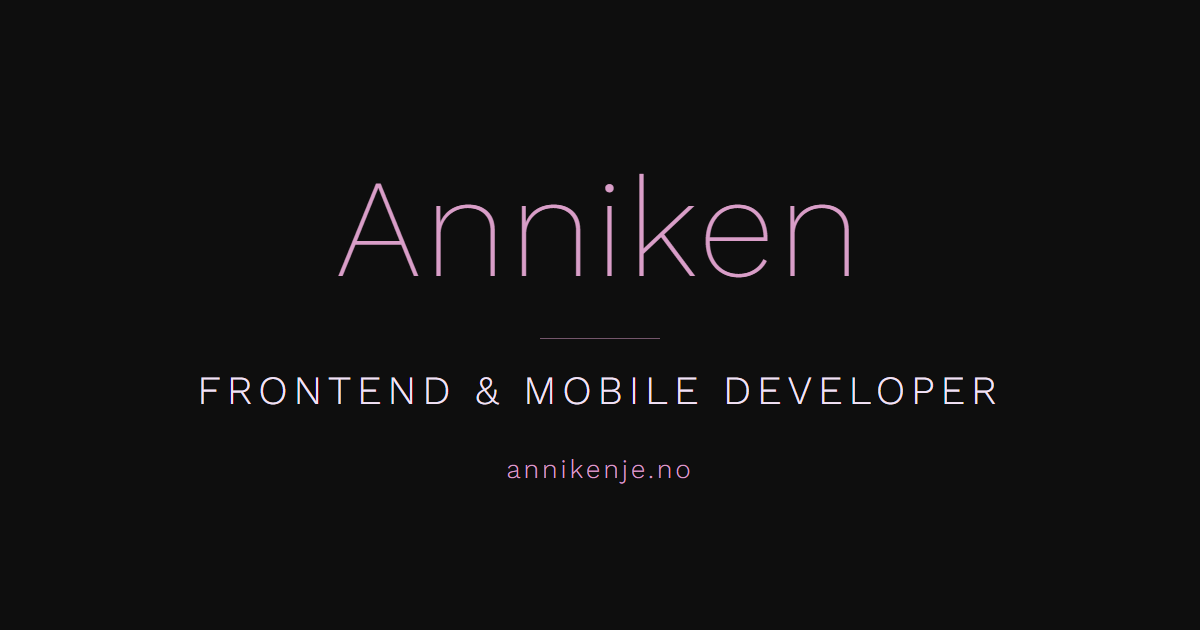
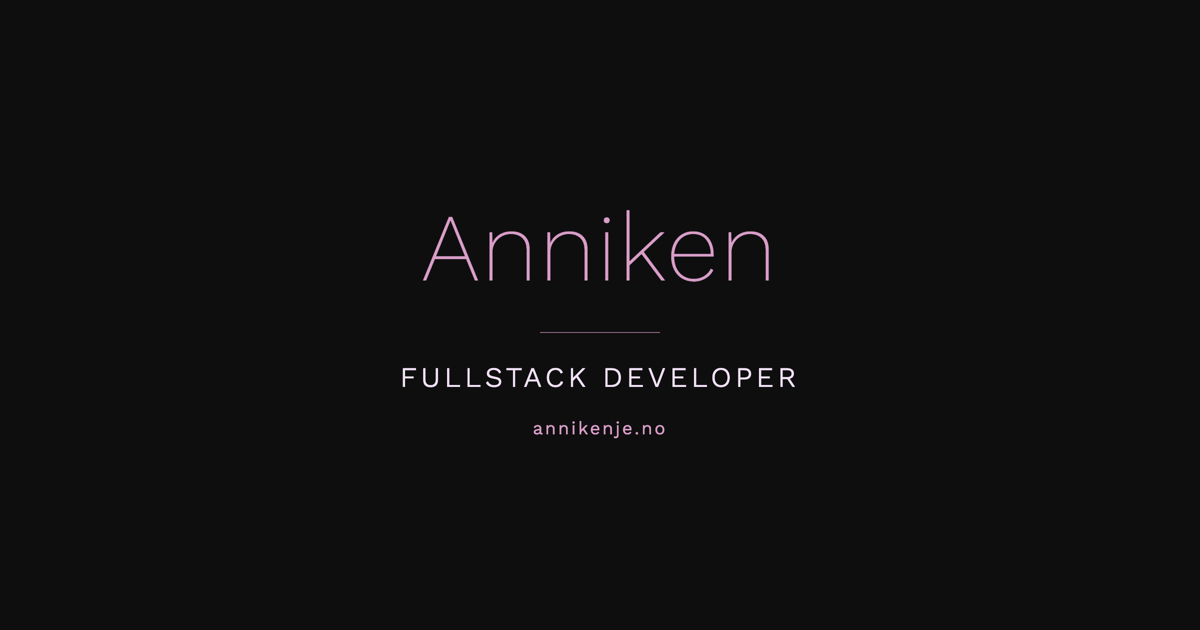
content: reposition as fullstack developer, drop mobile from headline
Home copy, page title, and OG card now lead with "Fullstack Developer"
instead of "Fullstack & Mobile Developer".

diff --git a/index.html b/index.html
@@ -7,10 +7,10 @@
     <meta name="theme-color" content="#0e0e0e" />
     <meta name="robots" content="noindex, nofollow" />
 
-    <title>Anniken Jørgensen Edvardsen — Frontend & Mobile Developer</title>
+    <title>Anniken Jørgensen Edvardsen — Fullstack Developer</title>
     <meta
       name="description"
-      content="Anniken Jørgensen Edvardsen — frontend and mobile developer who recently graduated with a Bachelor’s in Frontend and Mobile Development. Building apps for web and mobile."
+      content="Anniken Jørgensen Edvardsen — fullstack developer with a Bachelor’s in Frontend and Mobile Development. Building apps for web, mobile, and backend."
     />
     <link rel="canonical" href="https://www.annikenje.no/" />
 
@@ -19,11 +19,11 @@
     <meta property="og:url" content="https://www.annikenje.no/" />
     <meta
       property="og:title"
-      content="Anniken Jørgensen Edvardsen — Frontend & Mobile Developer"
+      content="Anniken Jørgensen Edvardsen — Fullstack Developer"
     />
     <meta
       property="og:description"
-      content="Frontend and mobile developer who recently graduated with a Bachelor’s in Frontend and Mobile Development. Building apps for web and mobile."
+      content="Fullstack developer with a Bachelor’s in Frontend and Mobile Development. Building apps for web, mobile, and backend."
     />
     <meta property="og:image" content="https://www.annikenje.no/og-image.png" />
     <meta name="twitter:card" content="summary_large_image" />

diff --git a/src/pages/HomePage.tsx b/src/pages/HomePage.tsx
@@ -15,8 +15,8 @@ const HomePage = () => {
           </h2>
 
           <p className="reveal" style={order(2)}>
-            A fullstack and mobile developer, with a Bachelor’s degree in
-            Frontend and Mobile Development.
+            A fullstack developer, with a Bachelor’s degree in Frontend and
+            Mobile Development.
           </p>
           <p className="reveal" style={order(3)}>
             Feel free to check out my{" "}
